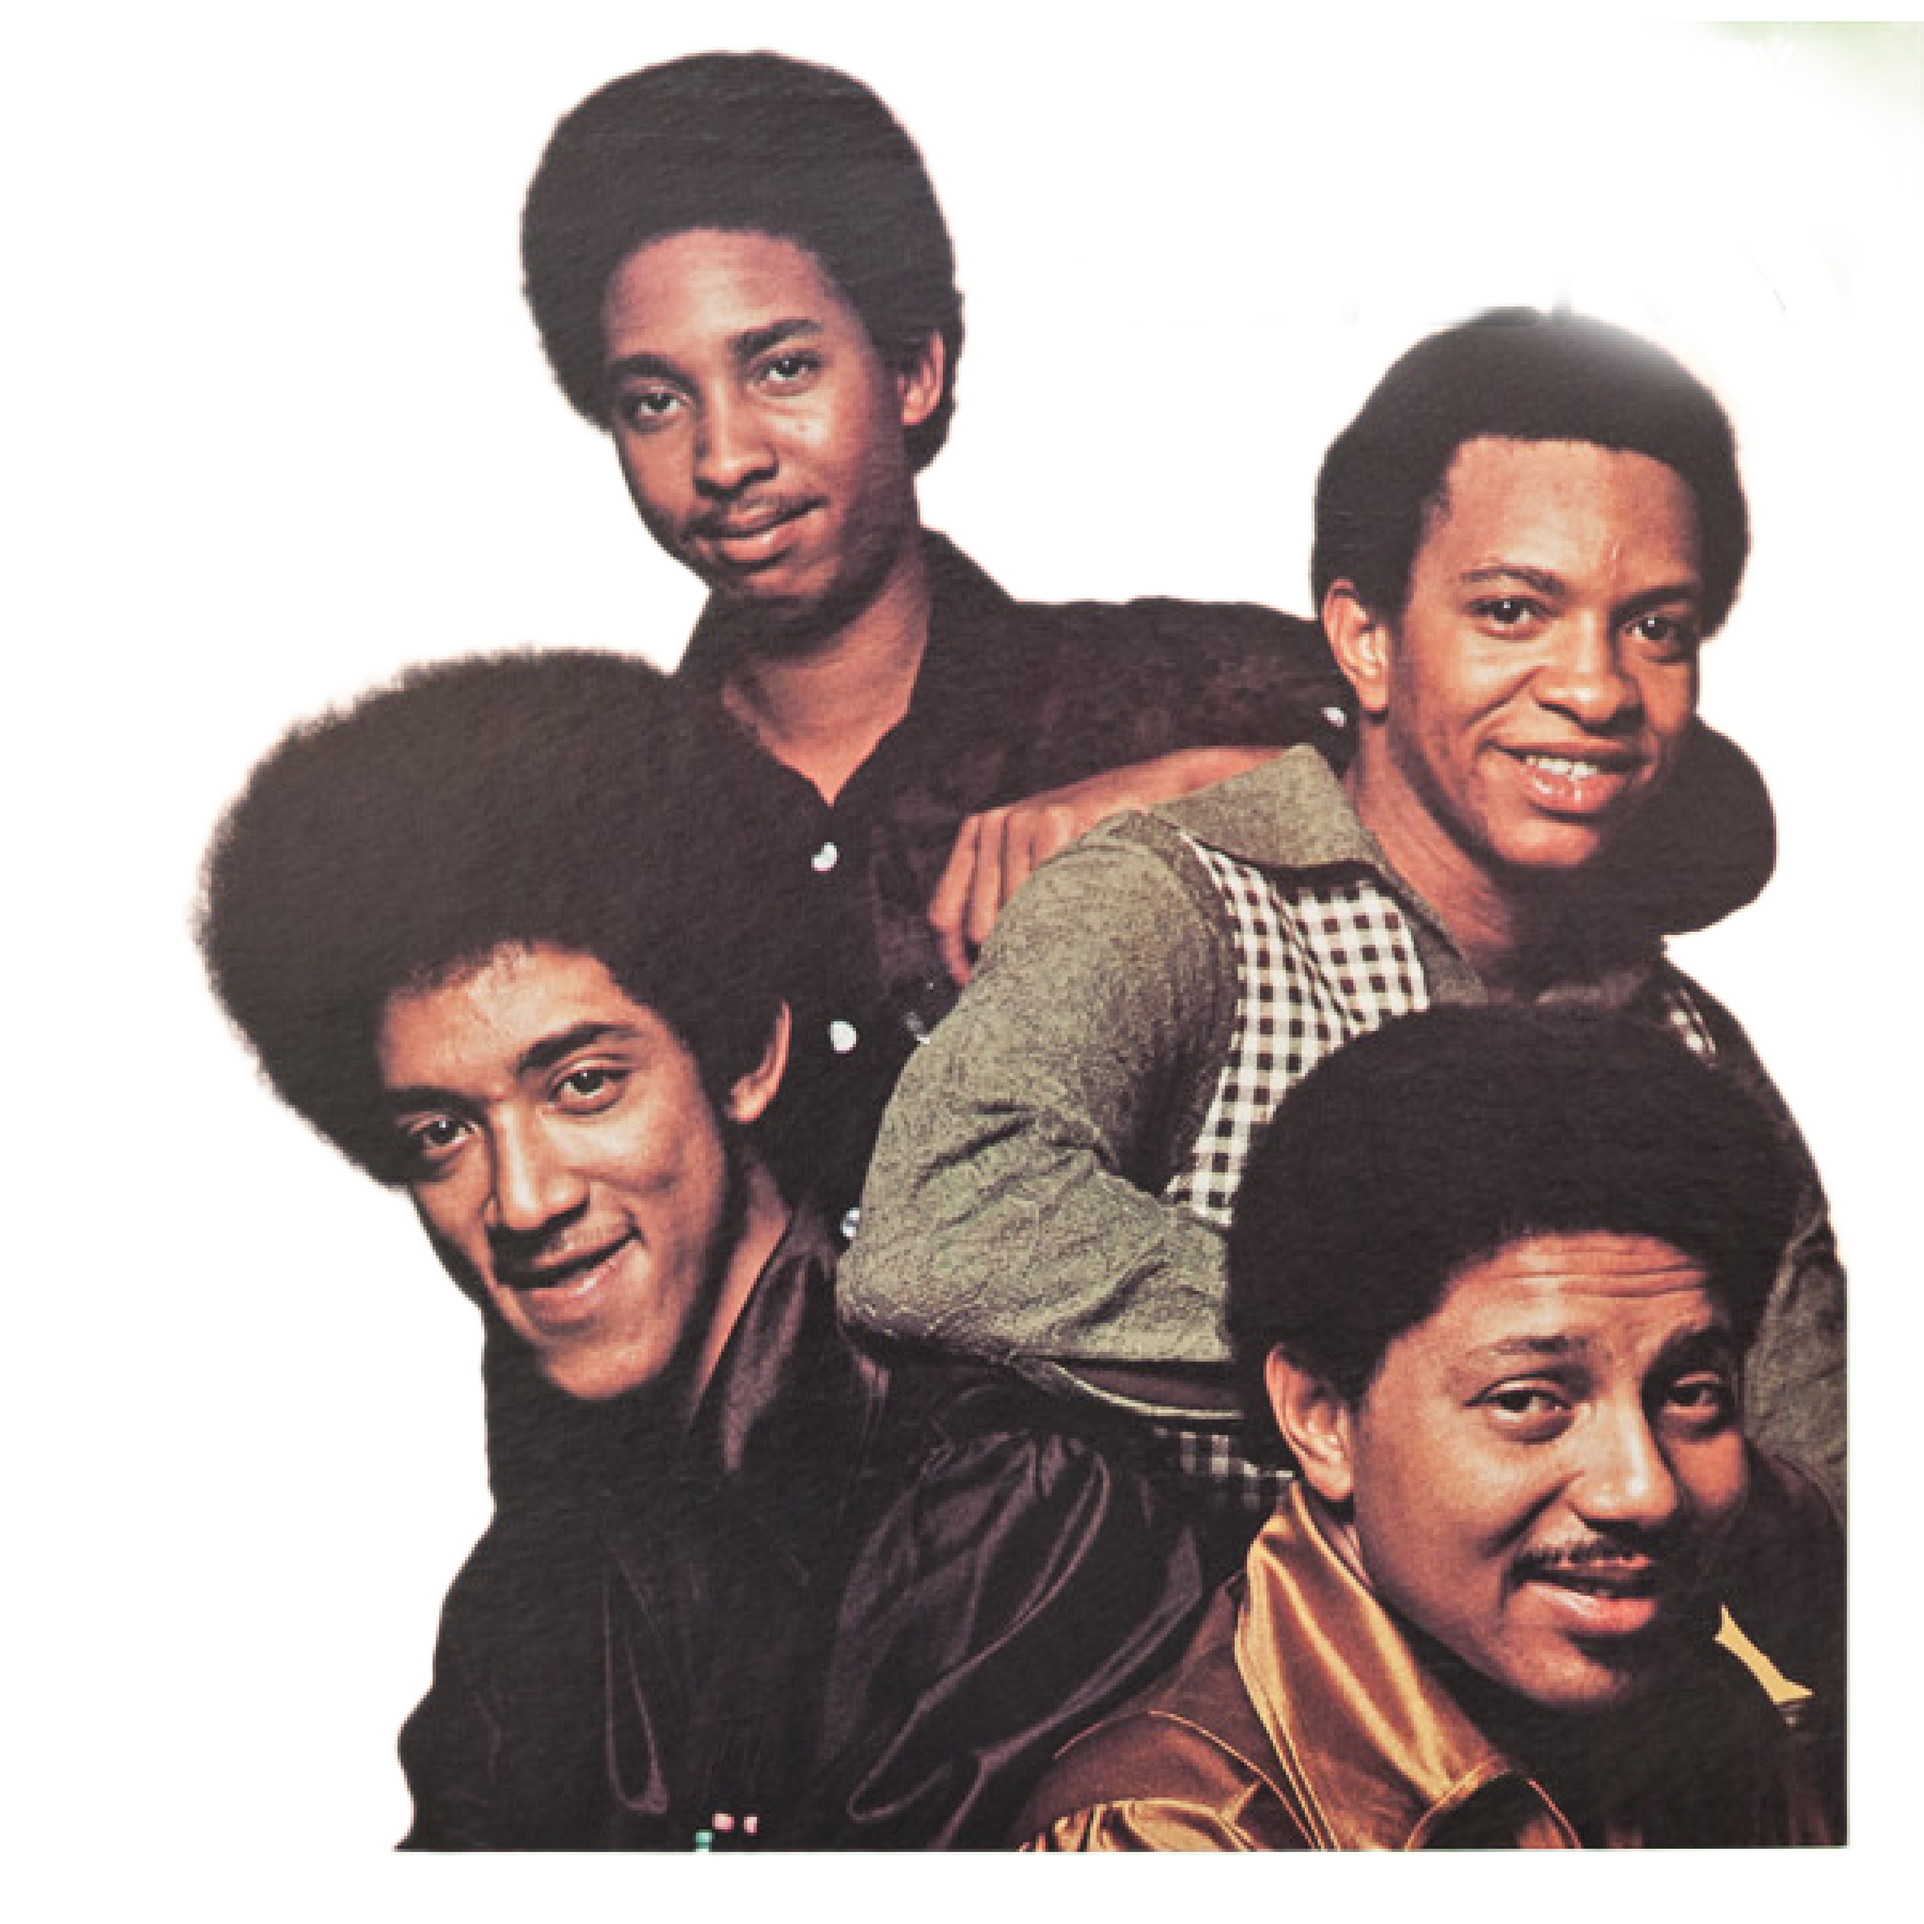
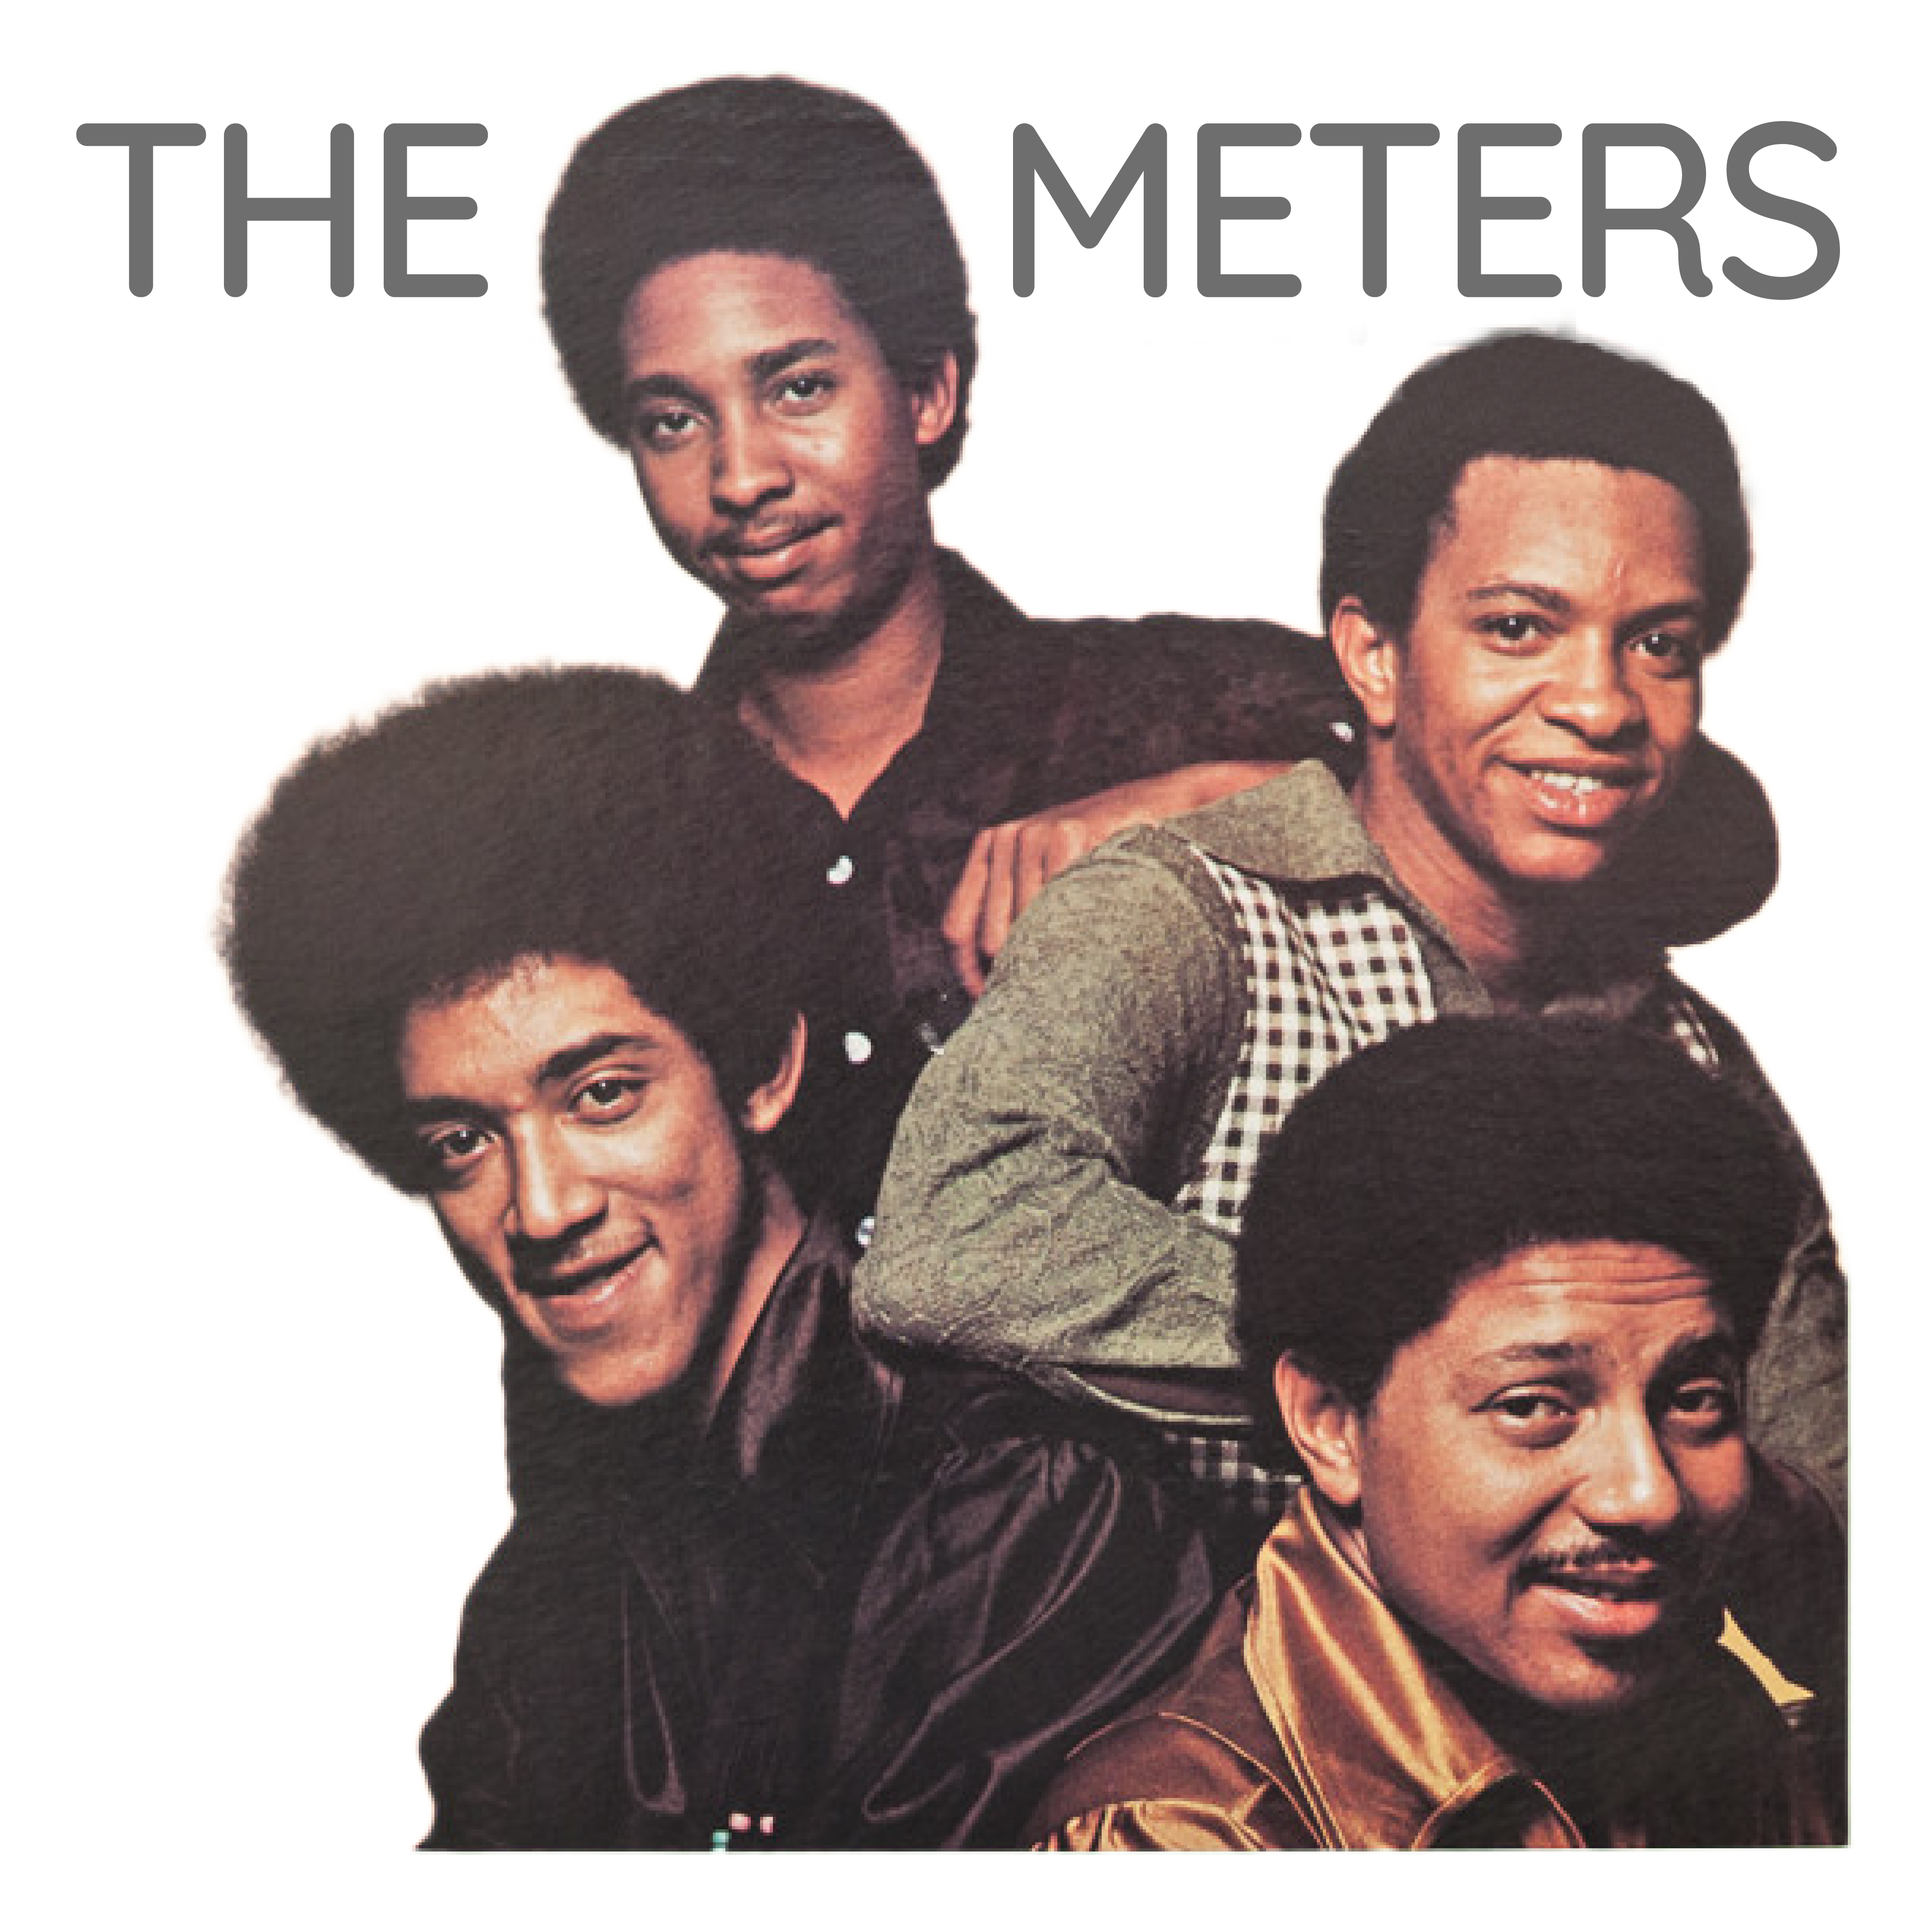
back et 1plan the meters

diff --git a/README.md b/README.md
@@ -10,7 +10,7 @@ https://github.com/DjoAHP/cdn-ressources-albums
 
 ## Lien cdn.jsdelivr.net:
 
-https://cdn.jsdelivr.net/gh/DjoAHP/cdn-ressources-albums@v1.1.1/
+https://cdn.jsdelivr.net/gh/DjoAHP/cdn-ressources-albums@v1.1.3/
 
 ## Commandes push Depot GH:
 
